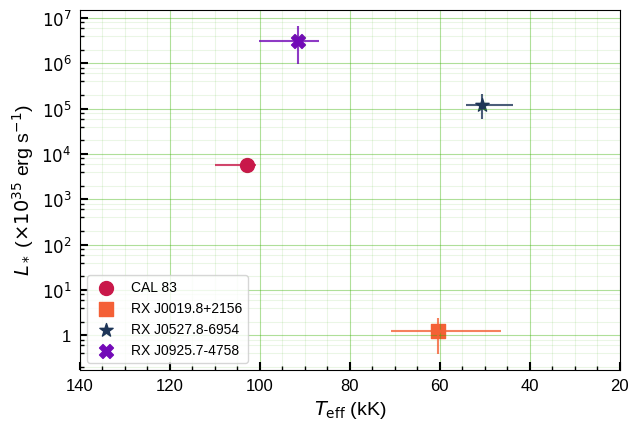
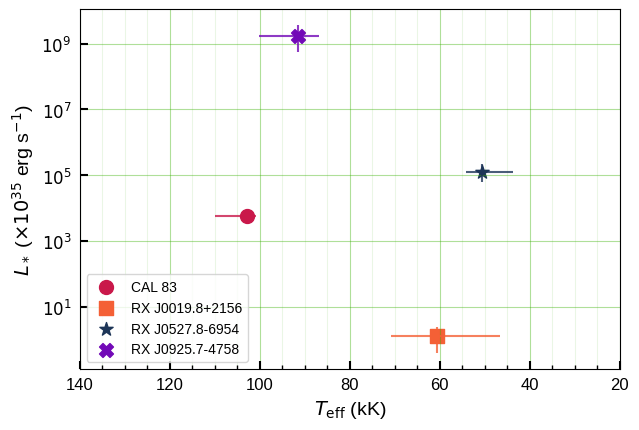
Updated correction to L values for MR Vel

diff --git a/chapters/05/results.tex b/chapters/05/results.tex
@@ -105,7 +105,7 @@
 			{RS Oph} & {} & {} & {} \\
 			{RX J0019.8+2156} & {$1.23_{0.39}^{2.37}\times 10^{35}$} & {$60.5_{46.5}^{70.9}$} & {$0.046_{0.014}^{0.805}$} \\
 			{RX J0527.8-6954} & {$1.21_{0.60}^{2.13}\times 10^{40}$} & {$50.6_{43.7}^{54.1}$} & {$0.333_{0.246}^{0.338}$} \\
-			{RX J0925.7-4758} & {$3.05_{0.99}^{6.53}\times 10^{41}$} & {$91.6_{86.9}^{100.2}$} & {$1.175_{1.086}^{1.274}$} \\
+			{RX J0925.7-4758} & {$1.69_{0.54}^{3.58}\times 10^{44}$} & {$91.6_{86.9}^{100.2}$} & {$1.175_{1.086}^{1.274}$} \\
 			{V3890 Sgr} & {} & {} & {} \\
 			\hline
 			\end{tabular}
